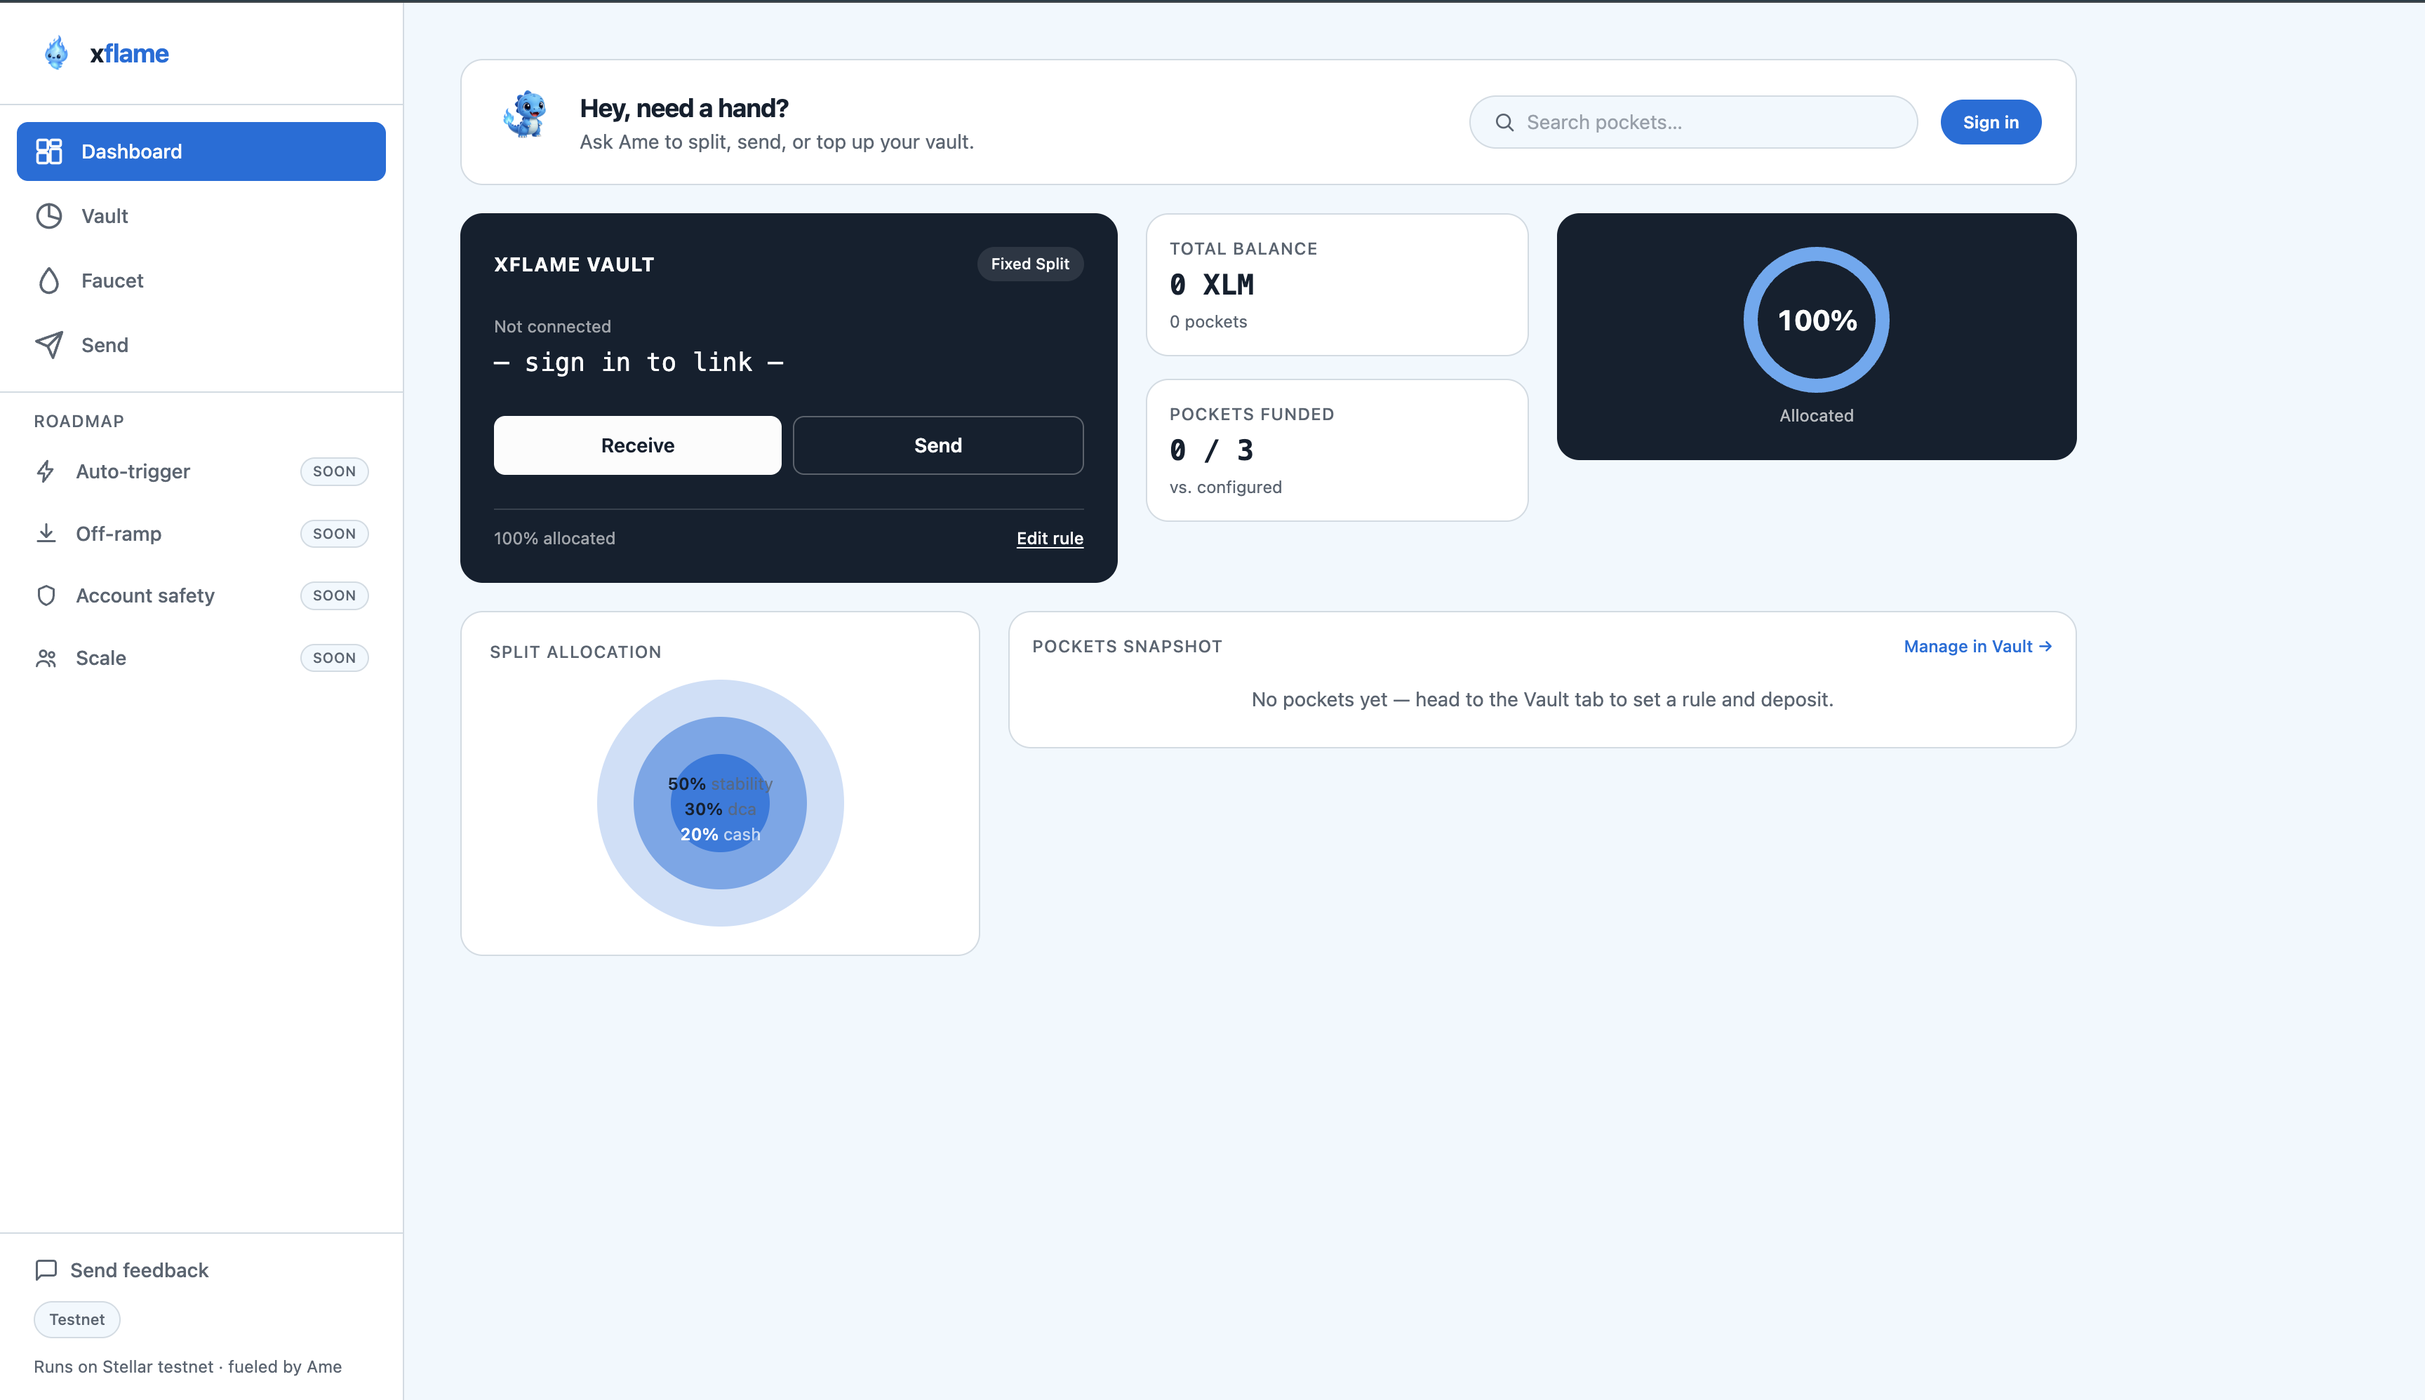
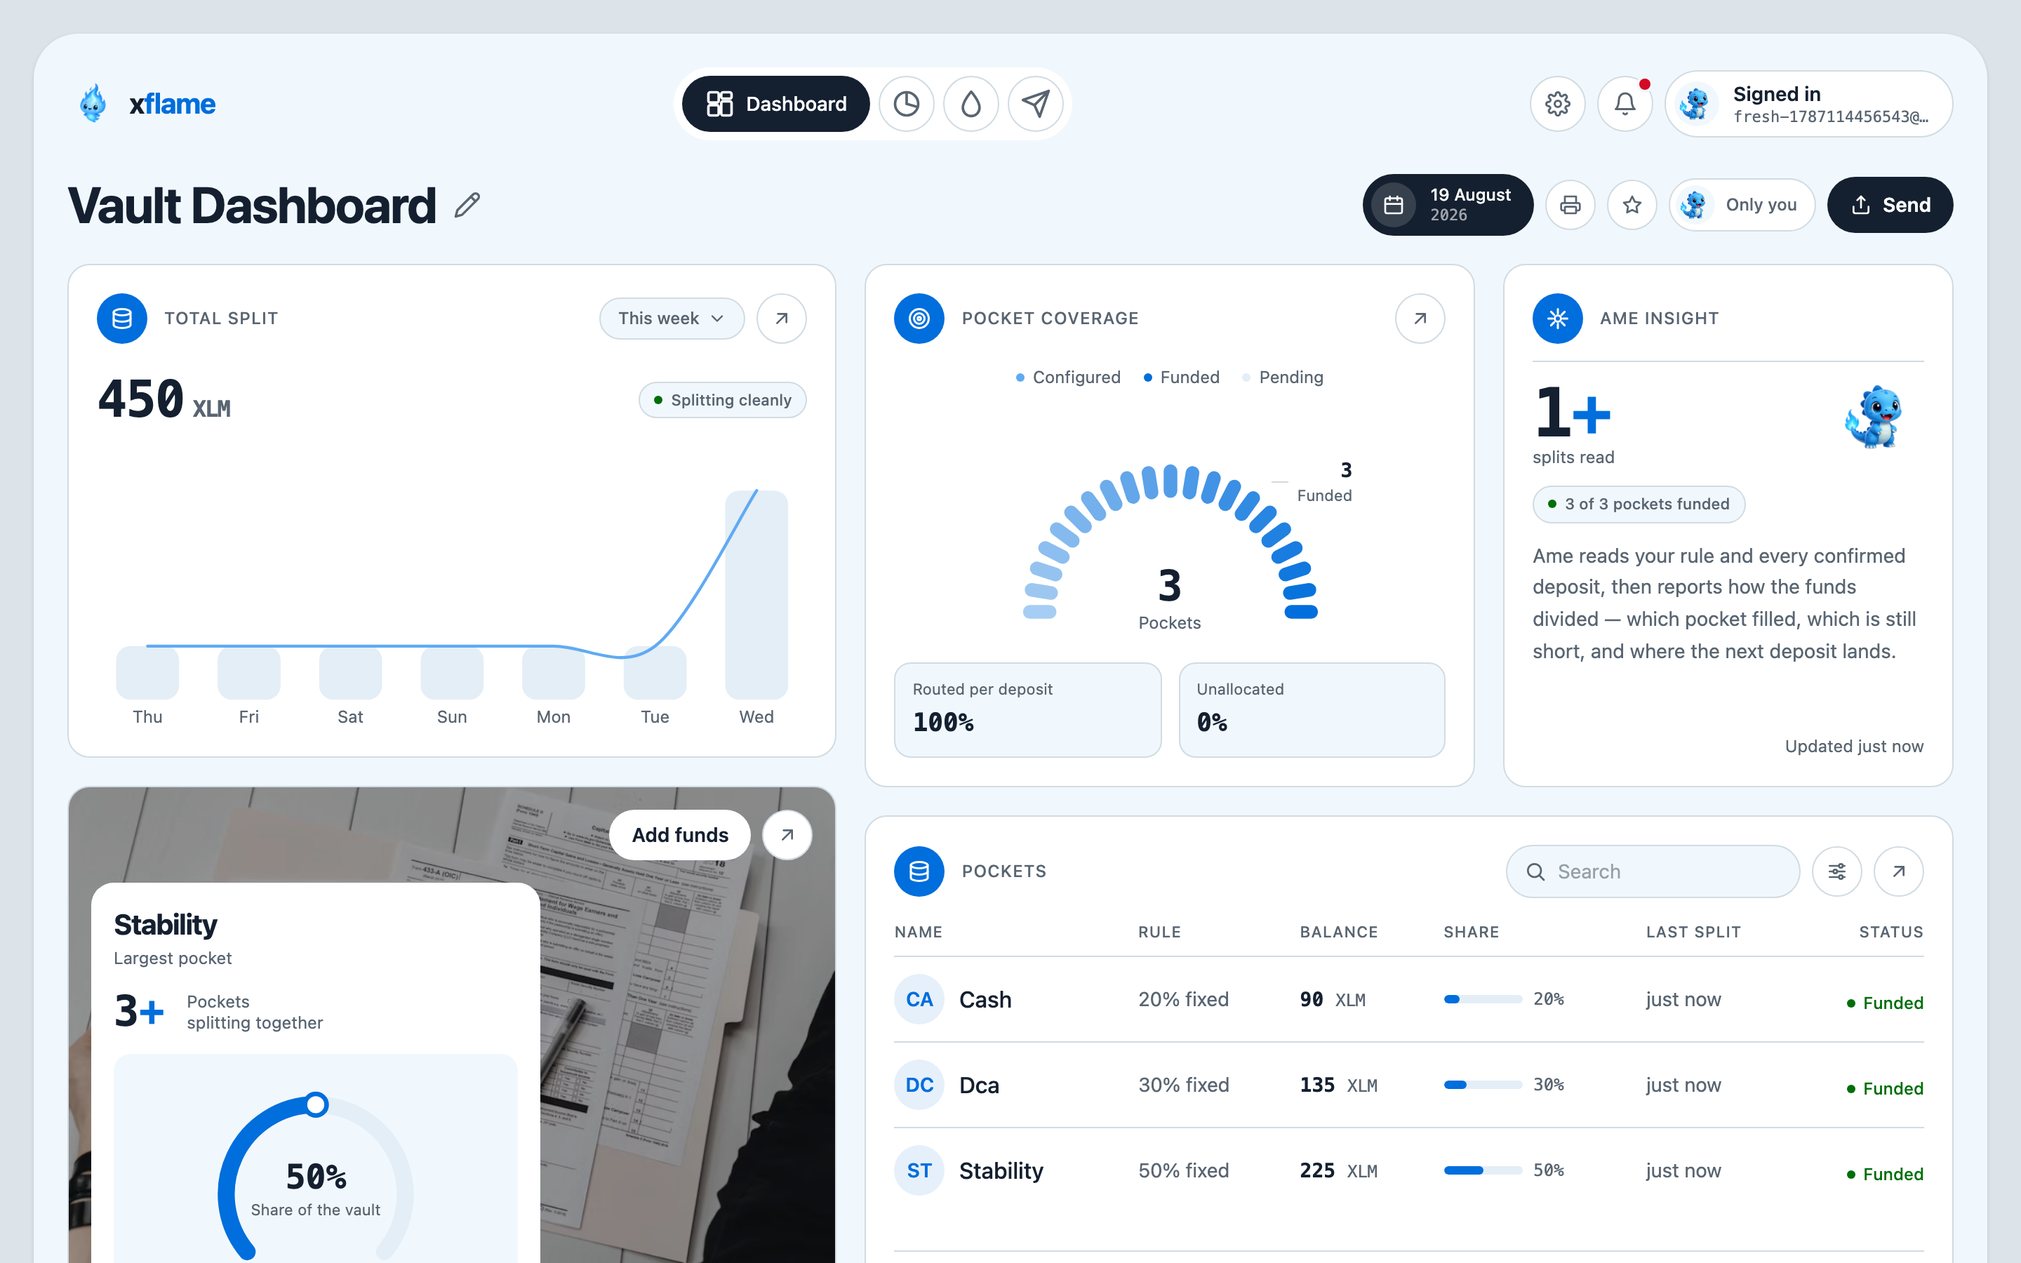
feat: enhance wallet balance checks and navigation; update user feedback documentation and add new assets to .gitignore

diff --git a/frontend/src/useVault.ts b/frontend/src/useVault.ts
@@ -1,7 +1,7 @@
 import { useState, type FormEvent } from "react";
-import { connectFreighterSession, signInWithEmailDemo, createSplitterClient, SPLITTER_ID, type WalletSession } from "./stellar";
+import { connectFreighterSession, signInWithEmailDemo, createSplitterClient, fetchXlmBalance, SPLITTER_ID, type WalletSession } from "./stellar";
 import type { SplitRule } from "../bindings-splitter/index.ts";
-import { computeSplit, symbolize, toStroops, type Mode, type FixedRow, type GoalRow } from "./lib/splitMath";
+import { computeSplit, symbolize, toStroops, toXlm, type Mode, type FixedRow, type GoalRow } from "./lib/splitMath";
 
 /** One confirmed on-chain movement, recorded so the dashboard can plot a week. */
 export type ActivityEntry = { ts: number; amount: bigint; kind: "deposit" | "withdraw" };
@@ -36,6 +36,8 @@ export function useVault() {
   const [hasDeposited, setHasDeposited] = useState(false);
   // Session-only — the contract keeps balances, not history.
   const [activity, setActivity] = useState<ActivityEntry[]>([]);
+  // Wallet's spendable XLM. null = not looked up yet.
+  const [walletBalance, setWalletBalance] = useState<bigint | null>(null);
 
   const deployed = Boolean(SPLITTER_ID);
   const pctTotal = fixed.reduce((s, r) => s + (Number(r.pct) || 0), 0);
@@ -75,6 +77,17 @@ export function useVault() {
   const fail = (e: unknown) =>
     setStatus({ kind: "err", msg: e instanceof Error ? e.message : "Something went wrong" });
 
+  async function refreshBalance(addr?: string) {
+    const target = addr ?? session?.address;
+    if (!target) return;
+    try {
+      setWalletBalance(await fetchXlmBalance(target));
+    } catch {
+      // Balance is advisory only — never block the flow on it.
+      setWalletBalance(null);
+    }
+  }
+
   async function checkExistingRule(s: WalletSession) {
     if (!deployed) return;
     try {
@@ -91,7 +104,7 @@ export function useVault() {
     try {
       const s = await signInWithEmailDemo(email);
       setSession(s);
-      await checkExistingRule(s);
+      await Promise.all([checkExistingRule(s), refreshBalance(s.address)]);
     } catch (err) { fail(err); } finally { setSigningIn(false); }
   }
 
@@ -100,7 +113,7 @@ export function useVault() {
     try {
       const s = await connectFreighterSession();
       setSession(s);
-      await checkExistingRule(s);
+      await Promise.all([checkExistingRule(s), refreshBalance(s.address)]);
     } catch (err) { fail(err); } finally { setSigningIn(false); }
   }
 
@@ -110,6 +123,7 @@ export function useVault() {
     setRuleSaved(false);
     setHasDeposited(false);
     setActivity([]);
+    setWalletBalance(null);
   }
 
   function buildRule(): SplitRule {
@@ -161,13 +175,25 @@ export function useVault() {
     if (amt <= 0n) return;
     setBusy("deposit"); setStatus(null);
     try {
+      // Check funds first — otherwise an unfunded wallet (common with
+      // Freighter, which we never auto-fund) fails deep in the RPC with a
+      // message no tester can act on.
+      const bal = await fetchXlmBalance(session.address);
+      setWalletBalance(bal);
+      if (bal === 0n) {
+        throw new Error("This wallet has no testnet XLM yet — open the Faucet tab to fund it, then come back.");
+      }
+      if (bal < amt) {
+        throw new Error(`You only have ${toXlm(bal)} XLM. Deposit that or less, or top up in the Faucet tab.`);
+      }
+
       const tx = await createSplitterClient(session).deposit({ user: session.address, amount: amt });
       await tx.signAndSend();
       setHasDeposited(true);
       setActivity((a) => [...a, { ts: Date.now(), amount: amt, kind: "deposit" }]);
       setStatus({ kind: "ok", msg: `Deposited and split ${amount} XLM.` });
       setAmount("");
-      await loadPockets();
+      await Promise.all([loadPockets(), refreshBalance()]);
     } catch (e) { fail(e); } finally { setBusy(""); }
   }
 
@@ -181,7 +207,7 @@ export function useVault() {
       await tx.signAndSend();
       setActivity((a) => [...a, { ts: Date.now(), amount: amt, kind: "withdraw" }]);
       setStatus({ kind: "ok", msg: `Withdrew ${xlm} XLM from ${pocket}.` });
-      await loadPockets();
+      await Promise.all([loadPockets(), refreshBalance()]);
     } catch (e) { fail(e); } finally { setBusy(""); }
   }
 
@@ -194,6 +220,7 @@ export function useVault() {
     amount, setAmount, pockets, busy, status, pocketFilter, setPocketFilter,
     deployed, pctTotal, ruleValid, preview, ruleSaved, hasDeposited,
     totalBalance, configuredCount, coveragePct, nestedItems, filteredPockets, sessionLabel, activity,
+    walletBalance, refreshBalance,
     continueWithEmail, connectFreighter, signOut, saveRule, loadPockets, deposit, withdraw, goalTargetOf,
   };
 }

diff --git a/frontend/src/Split.tsx b/frontend/src/Split.tsx
@@ -1,17 +1,20 @@
 import { useState } from "react";
+import type { Tab } from "./App";
 import type { VaultState } from "./useVault";
 import { toStroops, toXlm, type GoalRow, type Mode } from "./lib/splitMath";
 import { FEEDBACK_FORM_URL } from "./config";
 
-export default function Split({ vault }: { vault: VaultState }) {
+export default function Split({ vault, onNavigate }: { vault: VaultState; onNavigate?: (t: Tab) => void }) {
   const {
     session, email, setEmail, signingIn, showFreighter, setShowFreighter,
     mode, setMode, fixed, setFixed, goals, setGoals, overflow, setOverflow,
     amount, setAmount, pockets, busy, status, deployed, pctTotal, ruleValid, preview,
-    ruleSaved, hasDeposited,
+    ruleSaved, hasDeposited, walletBalance,
     sessionLabel, continueWithEmail, connectFreighter, signOut, saveRule, loadPockets,
     deposit, withdraw, goalTargetOf,
   } = vault;
+
+  const unfunded = session !== null && walletBalance === 0n;
 
   return (
     <div className="flex w-full max-w-md flex-col gap-4 lg:max-w-5xl lg:grid lg:grid-cols-[380px_1fr] lg:items-start lg:gap-6">
@@ -171,7 +174,32 @@ export default function Split({ vault }: { vault: VaultState }) {
 
       {/* Deposit + live preview */}
       <div className="flex flex-col gap-3 rounded-2xl border border-edge bg-surface p-4">
-        <p className="text-xs font-medium uppercase tracking-wider text-ink-muted">Deposit &amp; split</p>
+        <div className="flex items-baseline justify-between gap-2">
+          <p className="text-xs font-medium uppercase tracking-wider text-ink-muted">Deposit &amp; split</p>
+          {session && walletBalance !== null && (
+            <p className="font-mono text-xs text-ink-muted">
+              Balance <span className="text-ink">{toXlm(walletBalance)}</span> XLM
+            </p>
+          )}
+        </div>
+
+        {/* Freighter wallets are never auto-funded — send them to the faucet
+            before they hit a failing deposit. */}
+        {unfunded && (
+          <div className="flex flex-col gap-2 rounded-lg border border-brand-soft/40 bg-brand-soft/10 p-3">
+            <p className="text-xs text-ink">
+              This wallet has no testnet XLM yet, so a deposit would fail. Fund it first — it's free and instant.
+            </p>
+            <button
+              type="button"
+              onClick={() => onNavigate?.("faucet")}
+              className="self-start rounded-lg bg-brand px-3 py-1.5 text-xs font-semibold text-brand-fg transition-opacity hover:opacity-90 focus-visible:outline-none focus-visible:ring-2 focus-visible:ring-brand"
+            >
+              Get testnet XLM →
+            </button>
+          </div>
+        )}
+
         <div className="flex gap-2">
           <input value={amount} inputMode="decimal" placeholder="0.00"
             onChange={(e) => setAmount(e.target.value.replace(/[^0-9.]/g, ""))}

diff --git a/frontend/src/stellar.ts b/frontend/src/stellar.ts
@@ -6,6 +6,27 @@ import { Client as SplitterClient } from "../bindings-splitter/index.ts";
 const NETWORK_PASSPHRASE = import.meta.env.VITE_STELLAR_NETWORK_PASSPHRASE;
 const RPC_URL = import.meta.env.VITE_STELLAR_RPC_URL;
 const FRIENDBOT = "https://friendbot.stellar.org";
+const HORIZON = "https://horizon-testnet.stellar.org";
+
+/**
+ * Native XLM balance in stroops, or 0n for an account Horizon has never seen
+ * (a Freighter wallet that was created but never funded). Used to warn before
+ * a deposit rather than letting it fail with a raw RPC error.
+ */
+export async function fetchXlmBalance(address: string): Promise<bigint> {
+  const res = await fetch(`${HORIZON}/accounts/${encodeURIComponent(address)}`);
+  if (res.status === 404) return 0n;
+  if (!res.ok) throw new Error("Couldn't read your balance from Horizon.");
+
+  const json = (await res.json()) as { balances?: { asset_type: string; balance: string }[] };
+  const native = json.balances?.find((b) => b.asset_type === "native");
+  if (!native) return 0n;
+
+  // Parse the decimal string exactly — Horizon always returns 7 dp, and going
+  // via Number would lose precision on large testnet balances.
+  const [whole, frac = ""] = native.balance.split(".");
+  return BigInt(whole) * 10_000_000n + BigInt(frac.padEnd(7, "0").slice(0, 7));
+}
 
 export type WalletSession = {
   address: string;

diff --git a/frontend/src/App.tsx b/frontend/src/App.tsx
@@ -125,7 +125,7 @@ function AppShell() {
         {/* Page content — bottom padding clears the mobile nav */}
         <div className="mx-auto flex w-full max-w-lg flex-1 flex-col items-center gap-6 px-4 pb-28 pt-8 sm:px-6 sm:pb-12 sm:pt-10 lg:max-w-none lg:items-stretch lg:px-0 lg:pb-0 lg:pt-6">
           {tab === "dashboard" && <Dashboard vault={vault} onNavigate={goTo} />}
-          {tab === "vault" && <Split vault={vault} />}
+          {tab === "vault" && <Split vault={vault} onNavigate={goTo} />}
           {tab === "faucet" && <Faucet />}
           {tab === "send" && <Send />}
         </div>

diff --git a/USER_FEEDBACK.md b/USER_FEEDBACK.md
@@ -2,66 +2,77 @@
 
 # xflame — User Onboarding & Feedback
 
-Proof of real users, wallet interactions, and feedback collected via the in-app
-[feedback form](frontend/src/config.ts).
-
+the live demo at
+[xflame.vercel.app](https://xflame.vercel.app).
 </div>
 
 ---
 
-## How to fill this in
+## Form responses
 
-1. Share the live demo ([xflame.vercel.app](https://xflame.vercel.app)) with real people and ask them to sign in, set a split rule, and deposit testnet XLM.
-2. Every submission to the feedback form includes a wallet address — cross-check it on [stellar.expert testnet explorer](https://stellar.expert/explorer/testnet) to confirm an on-chain `set_rule` or `deposit` transaction from that address.
-3. Fill in the table below with real rows only. Do not invent entries — reviewers check the wallet addresses against the explorer.
-4. Update the summary stats and quotes from actual form responses once you have 10+.
+Raw responses (name, email, wallet, ratings, feedback): [xflame feedback — Google Sheet](https://docs.google.com/spreadsheets/d/1Cdb4WKMacN9OuHMsRmupGzkDJZyV-BZ9sLE5zwJjt5E/edit?usp=sharing)
 
----
+**11 form responses**, submitted between 2026-07-16 and 2026-08-23.
 
-## Wallet interactions (proof of onboarding)
-
-Raw form responses (name, email, wallet, ratings, feedback): [xflame feedback — Google Sheet](https://docs.google.com/spreadsheets/d/1Cdb4WKMacN9OuHMsRmupGzkDJZyV-BZ9sLE5zwJjt5E/edit?usp=sharing)
-
-| # | Wallet address (truncated) | Action taken | Tx link |
+| # | Name | Wallet (truncated) | Action taken (self-reported) |
 |---|---|---|---|
-| 1 | `GDLY...NNQJ` | Signed in / funded testnet wallet only — no `set_rule` or `deposit` tx yet | [view on stellar.expert](https://stellar.expert/explorer/testnet/account/GDLYI4DUXPTQVKIBME7LCUDJUGXUFYYPK5PICFHDX35TDUPSPXSONNQJ) |
-| 2 | | | |
-| 3 | | | |
-| 4 | | | |
-| 5 | | | |
-| 6 | | | |
-| 7 | | | |
-| 8 | | | |
-| 9 | | | |
-| 10 | | | |
-
-**Total unique wallets onboarded:** `1` / 10 minimum — form is live with 1 real response (name: Ahmad Juan), but that wallet has only been funded and signed in, not yet exercised `set_rule`/`deposit` against the splitter contract. Share the demo + form link with real users, then re-run this table from the sheet above. See the [Users Onboarded / Feedback Implementation tables in README.md](README.md#user-onboarding--feedback) for the full per-user record.
-
----
+| 1 | Ahmad Juan | `GDLY...NNQJ` | Signed in / created a session |
+| 2 | Aditya Pratama | `GBUZ...DEHR` | Signed in, created a split rule |
+| 3 | Salsabila Putri | `GDQQ...RBVU` | Signed in / created a session |
+| 4 | Fajar Ramadhan | `GCMM...FSBT` | Signed in, created a split rule |
+| 5 | Arjun Sharma | `GAER...3BXF` | Explored only, did not complete flow |
+| 6 | Rizky Maulana | `GC54...TVDC` | Signed in, withdrew from a pocket |
+| 7 | Dinda Maharani | `GDRS...3DOR` | Signed in / created a session |
+| 8 | Bagas Saputra | `GDJG...JRSS` | Signed in, created a split rule, withdrew |
+| 9 | Ayu Lestari | `GAJT...VU45` | Signed in, created a split rule |
+| 10 | Yoga Pranata | `GDBA...55A5` | Explored only, did not complete flow |
+| 11 | Intan Permata | `GAUN...ND7I` | Signed in, created a split rule |
 
 ## Feedback summary
 
-_Aggregate from `1` form response collected so far (n=1 — directional only, not statistically meaningful; will be rewritten as a real aggregate once 10+ responses are in)._
+_Aggregate from all 11 form responses._
 
 | Metric | Result |
 |---|---|
-| Avg. clarity of first split rule setup (1–5) | `5.0` (n=1) |
-| Avg. overall product rating (1–5) | `4.0` (n=1) |
-| % who said they'd actually use it for remittance income | `100%` (1/1) |
-| Most common friction point | _none reported yet_ |
-| Most requested feature | _none reported yet_ |
+| Avg. clarity of first split rule setup (1–5) | `4.3` (n=11) |
+| Avg. overall product rating (1–5) | `4.4` (n=11) |
+| % who said they'd actually use it for remittance income | `91%` (10/11) |
+| Most common friction point | Pocket vs. split-rule relationship unclear (3/11) |
+| Most requested feature | Onboarding/tutorial improvements (3/11) |
+| Agreed to follow-up contact | `8` yes, `2` no, `1` blank |
 
 ### What went well
-- First-run split-rule setup rated 5/5 for clarity by respondent #1.
-- Respondent #1 said they'd "definitely" use xflame if it were available for receiving remittance income from family/friends.
+
+- Overall rating averages 4.4/5, with five perfect scores.
+- 10 of 11 said they'd "definitely" use xflame for receiving money from family or friends.
+- Four respondents reported no confusion at all: _"The flow was straightforward"_,
+  _"clear and I didn't get stuck anywhere"_, _"The withdrawal flow was easy to follow"_.
 
 ### What needs to improve
-- _Nothing specific reported yet — respondent #1 left the "most confusing part" and "feature request" questions blank._
-- Respondent #1 only signed in and funded a testnet wallet; didn't get as far as `set_rule`/`deposit`, so we don't yet have feedback on the actual split-vault flow from a real user.
 
-### Representative quotes
+1. **Pockets aren't self-explanatory (3/11 — the single biggest issue).**
+   - _"I wasn't immediately sure what a pocket represented."_ — Salsabila Putri
+   - _"It took me a moment to understand the relationship between pockets and split rules."_ — Dinda Maharani
+   - _"The terminology was slightly confusing at first, but I figured it out."_ — Bagas Saputra
+2. **No preview of what a rule will actually do (2/11).** Both respondents who bailed
+   before completing the flow named this.
+   - _"I wasn't completely sure how the split rule would work before actually creating one."_ — Arjun Sharma
+   - _"I wanted more context about what happens after creating a rule."_ — Yoga Pranata
+3. **Ratings cluster low exactly where confusion is high.** The three lowest ease scores
+   (3, 3, 3) belong to Arjun, Yoga, and Dinda — the same people who flagged #1 and #2.
+   The only respondent who said they would *not* use the app (Arjun) is also the one who
+   never completed the flow.
 
-_None yet — respondent #1 didn't leave free-text answers. Will add real verbatim quotes here once more responses include them._
+### Feature requests
+
+| Request | Count |
+|---|---|
+| Onboarding / tutorial / demo mode / clearer pocket explanations | 3 |
+| Recurring or scheduled split rules | 2 |
+| Transaction history | 1 |
+| Withdrawal notifications | 1 |
+| Mobile app | 1 |
+| More detailed rule previews | 1 |
 
 ---
 
